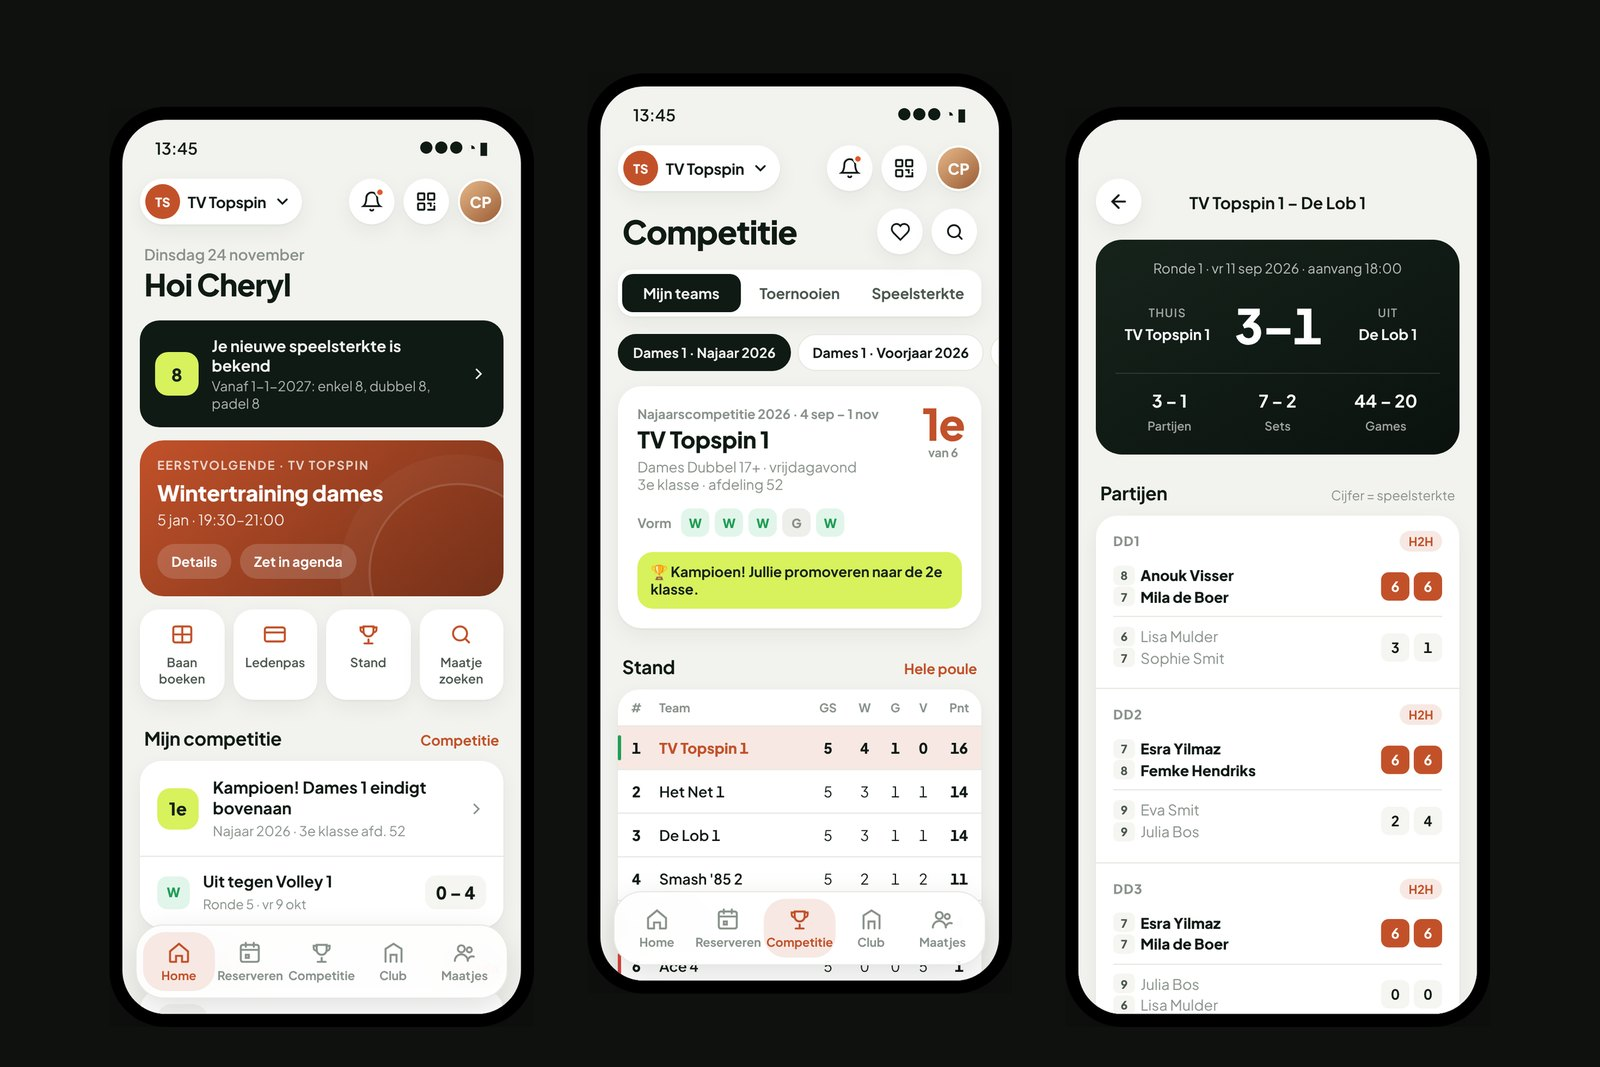
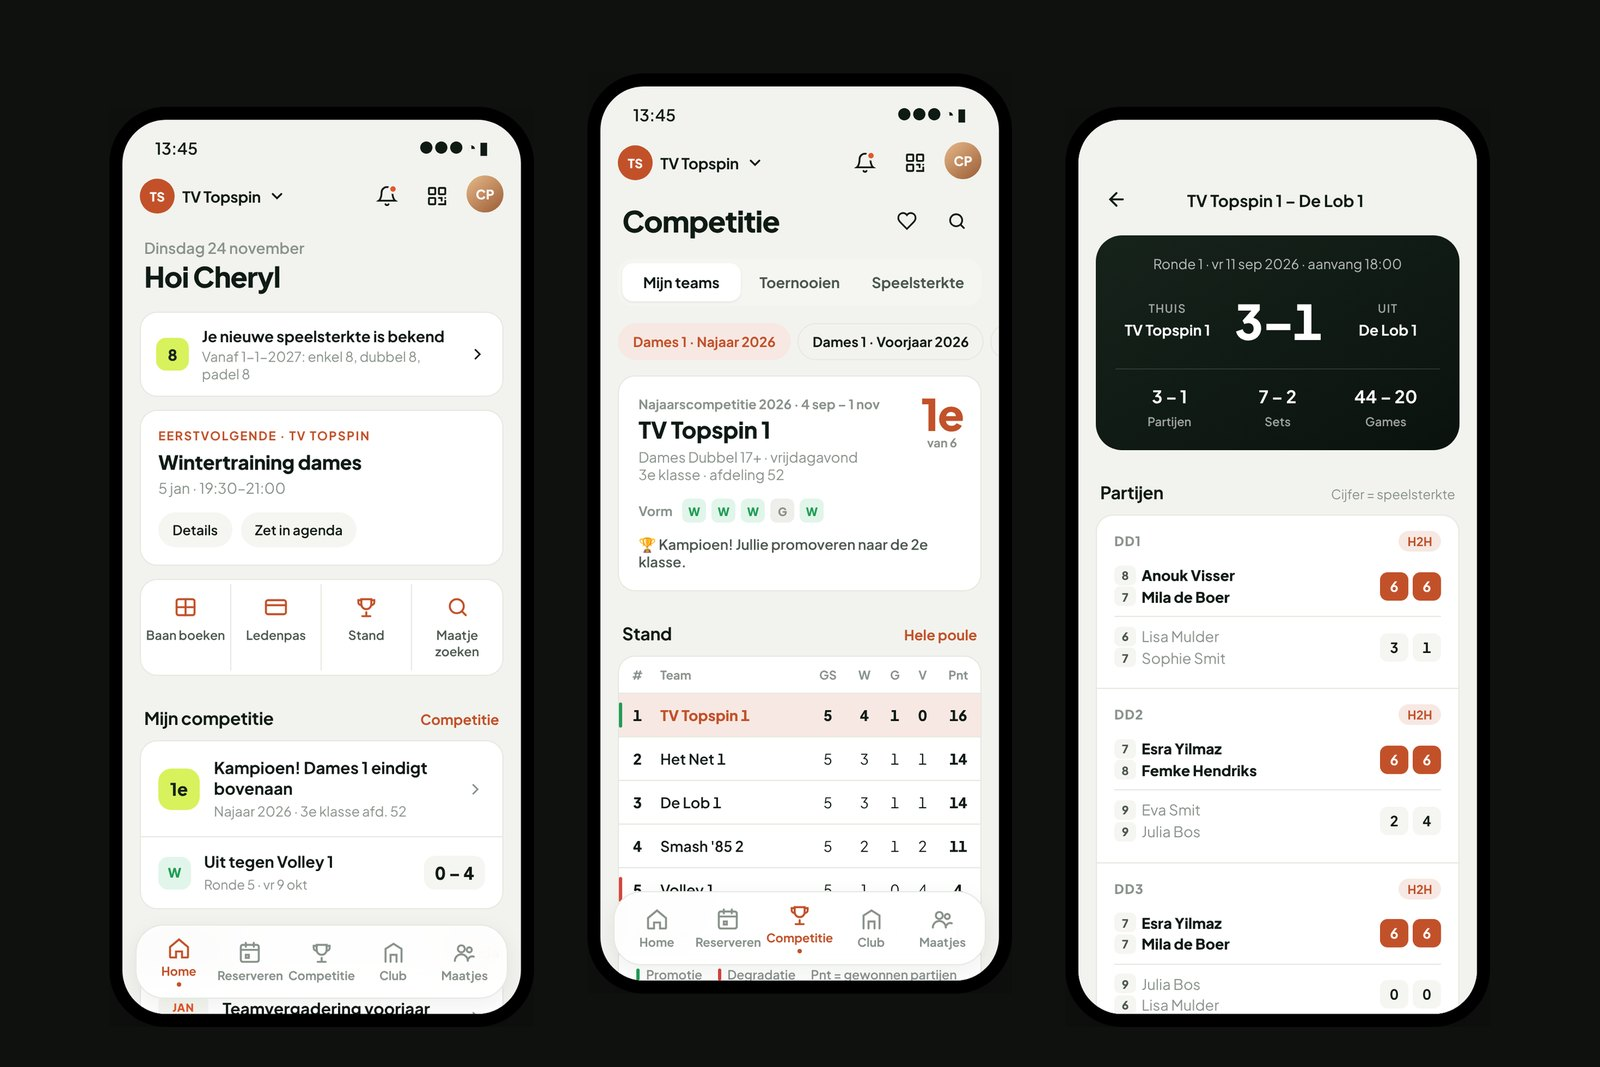
Tennisapp-concept rustiger: vlak, dunne lijnen, kleur alleen waar het iets betekent
- Geen schaduwen meer, kaarten met een dunne lijn
- Home: speelsterkte als lichte regel, eerstvolgende als witte kaart, snelknoppen in één rij
- 'Dit seizoen' verhuisd naar het profiel
- Baanoverzicht: alleen vrije banen vallen op
- Lichtere segmenten, chips en tabbalk; nieuw omslagbeeld

Claude-Session: https://claude.ai/code/session_01F4vhHE54ADmppikkSmCUSU

diff --git a/public/werk/tennisapp/index.html b/public/werk/tennisapp/index.html
@@ -303,6 +303,51 @@ table.stand{width:100%;border-collapse:collapse;font-size:13.5px}
 .players button.on{border-color:var(--accent);background:var(--accent-soft);color:var(--accent)}
 .toast{position:absolute;left:50%;top:58px;transform:translate(-50%,-30px);background:var(--ink);color:var(--bg);padding:12px 18px;border-radius:14px;font-size:13.5px;font-weight:600;opacity:0;transition:.3s;z-index:60;white-space:nowrap;pointer-events:none}
 .toast.on{opacity:1;transform:translate(-50%,0)}
+
+/* ---------- Rustiger: vlak, dunne lijnen, kleur alleen waar het iets betekent ---------- */
+:root{--shadow:none}
+.card,.team-hero,.stats{box-shadow:none;border:1px solid var(--line);border-radius:16px}
+.seg,.search,.day,.q{box-shadow:none}
+.top{padding-top:4px}
+.club-pill{background:transparent;box-shadow:none;padding:4px 6px 4px 0}
+.icon-btn{background:transparent;box-shadow:none;width:38px;height:38px}
+.icon-btn .dot{border-color:var(--bg)}
+.me-btn{box-shadow:none;border:0;width:34px;height:34px;font-size:12px}
+h2.ttl{font-size:27px;margin:4px 4px 16px}
+.hello h2{font-size:26px}
+.sec{margin:28px 4px 10px}
+.sec h3{font-size:16px}
+.notice{background:var(--surface);color:var(--ink);border:1px solid var(--line);border-radius:16px;padding:12px 14px}
+.notice .ic{width:30px;height:30px;border-radius:9px;font-size:14px}
+.notice .t{font-size:14px}
+.notice .s{opacity:1;color:var(--ink-3)}
+.next{background:var(--surface);color:var(--ink);border:1px solid var(--line);border-radius:16px;margin-top:0}
+.next::after{display:none}
+.next .k{color:var(--accent);opacity:1}
+.next .t{font-size:18px}
+.next .s{opacity:1;color:var(--ink-3)}
+.pillbtn{background:var(--surface-2);color:var(--ink);font-weight:600}
+.quick{background:var(--surface);border:1px solid var(--line);border-radius:16px;gap:0;padding:4px 0}
+.q{background:transparent;border-radius:0;padding:10px 4px;border-right:1px solid var(--line)}
+.q:last-child{border-right:0}
+.seg{background:var(--surface-2);border:0}
+.seg button.on{background:var(--surface);color:var(--ink);box-shadow:0 1px 2px rgba(15,26,20,.08)}
+.chip{background:transparent}
+.chip.on{background:var(--accent-soft);color:var(--accent);border-color:transparent}
+.day{border:1px solid var(--line)}
+.day.on{border-color:var(--accent)}
+.slot.free{background:transparent;color:var(--accent);box-shadow:inset 0 0 0 1px color-mix(in srgb,var(--accent) 40%,transparent)}
+.slot.busy{background:var(--surface-2);color:transparent}
+.slot.train{background:var(--surface-2);color:var(--ink-3);font-weight:600}
+.champ{background:transparent;padding:0;margin-top:12px;color:var(--ink-2);font-weight:600}
+.form span{width:22px;height:22px;border-radius:6px;font-size:10.5px}
+.ad{background:var(--surface-2);color:var(--ink);border:1px solid var(--line)}
+.ad small{color:var(--ink-3);opacity:1}
+.news .img{height:92px;font-size:20px}
+.tabbar{box-shadow:0 6px 20px rgba(15,26,20,.07)}
+.tab.on{background:transparent;color:var(--accent)}
+.tab.on::after{content:"";width:4px;height:4px;border-radius:50%;background:var(--accent);margin-top:1px}
+.pass{border-radius:18px}
 </style>
 </head>
 <body>
@@ -377,13 +422,6 @@ table.stand{width:100%;border-collapse:collapse;font-size:13.5px}
       <div class="sec"><h3>Binnenkort</h3><a data-go="club" data-subgo="agenda">Agenda</a></div>
       <div class="card" id="homeAgenda"></div>
 
-      <div class="sec"><h3>Dit seizoen</h3></div>
-      <div class="stats">
-        <div class="stat" data-go="club" data-subgo="diensten"><b>0</b><span>Diensten</span></div>
-        <div class="stat" data-go="club" data-subgo="diensten"><b>0/0</b><span>Punten</span></div>
-        <div class="stat"><b>0m</b><span>Gespeeld</span></div>
-        <div class="stat" data-go="comp"><b>4</b><span>Competities</span></div>
-      </div>
     </section>
 
     <!-- RESERVEREN -->
@@ -397,9 +435,9 @@ table.stand{width:100%;border-collapse:collapse;font-size:13.5px}
         <button class="chip" data-f="vrij">Alleen vrij</button>
       </div>
       <div class="legend">
-        <span><i style="background:var(--accent-soft);outline:1px solid var(--accent)"></i>Vrij</span>
-        <span><i style="background:var(--surface-2);outline:1px solid var(--line)"></i>Bezet</span>
-        <span><i style="background:repeating-linear-gradient(135deg,var(--surface-2),var(--surface-2) 3px,var(--line) 3px,var(--line) 4px)"></i>Training</span>
+        <span><i style="background:transparent;box-shadow:inset 0 0 0 1px var(--accent)"></i>Vrij</span>
+        <span><i style="background:var(--surface-2);box-shadow:inset 0 0 0 1px var(--line)"></i>Bezet</span>
+        <span><i style="background:var(--surface-2)"></i>Training</span>
       </div>
       <div class="card"><div class="grid-scroll" id="courtGrid"></div></div>
       <p class="muted" style="font-size:12px;margin:10px 4px">Tik op een groen blok om direct te boeken.</p>
@@ -812,6 +850,13 @@ function mePage(){
       <div style="display:flex;justify-content:space-between;align-items:center"><span class="lbl">Digitale ledenpas</span><span class="tag" style="background:var(--ball);color:#16231B">Actief</span></div>
       <div class="r2"><div><div class="nm">Cheryl Prins</div><div class="lbl" style="margin-top:8px">Bondsnummer</div><div class="num">1234 ••••</div></div>
       <div class="clubs">${["lee","fto","atc"].map(k=>`<span>${CLUBS[k].name} <span style="display:inline-block;width:8px;height:8px;border-radius:50%;background:${CLUBS[k].color}"></span></span>`).join("")}</div></div>
+    </div>
+    <div class="sec"><h3>Dit seizoen</h3></div>
+    <div class="stats">
+      <div class="stat" data-go="club" data-subgo="diensten"><b>0</b><span>Diensten</span></div>
+      <div class="stat" data-go="club" data-subgo="diensten"><b>0/0</b><span>Punten</span></div>
+      <div class="stat"><b>0m</b><span>Gespeeld</span></div>
+      <div class="stat" data-go="comp"><b>4</b><span>Competities</span></div>
     </div>
     <div class="sec"><h3>Speelsterkte</h3><a data-go="comp" data-subgo="rating">Verloop</a></div>
     <div class="card"><div class="rating-grid"><div><small>Enkel</small><b>8.8255</b></div><div><small>Dubbel</small><b>8.0202</b></div><div><small>Padel</small><b>8.1500</b></div></div></div>
